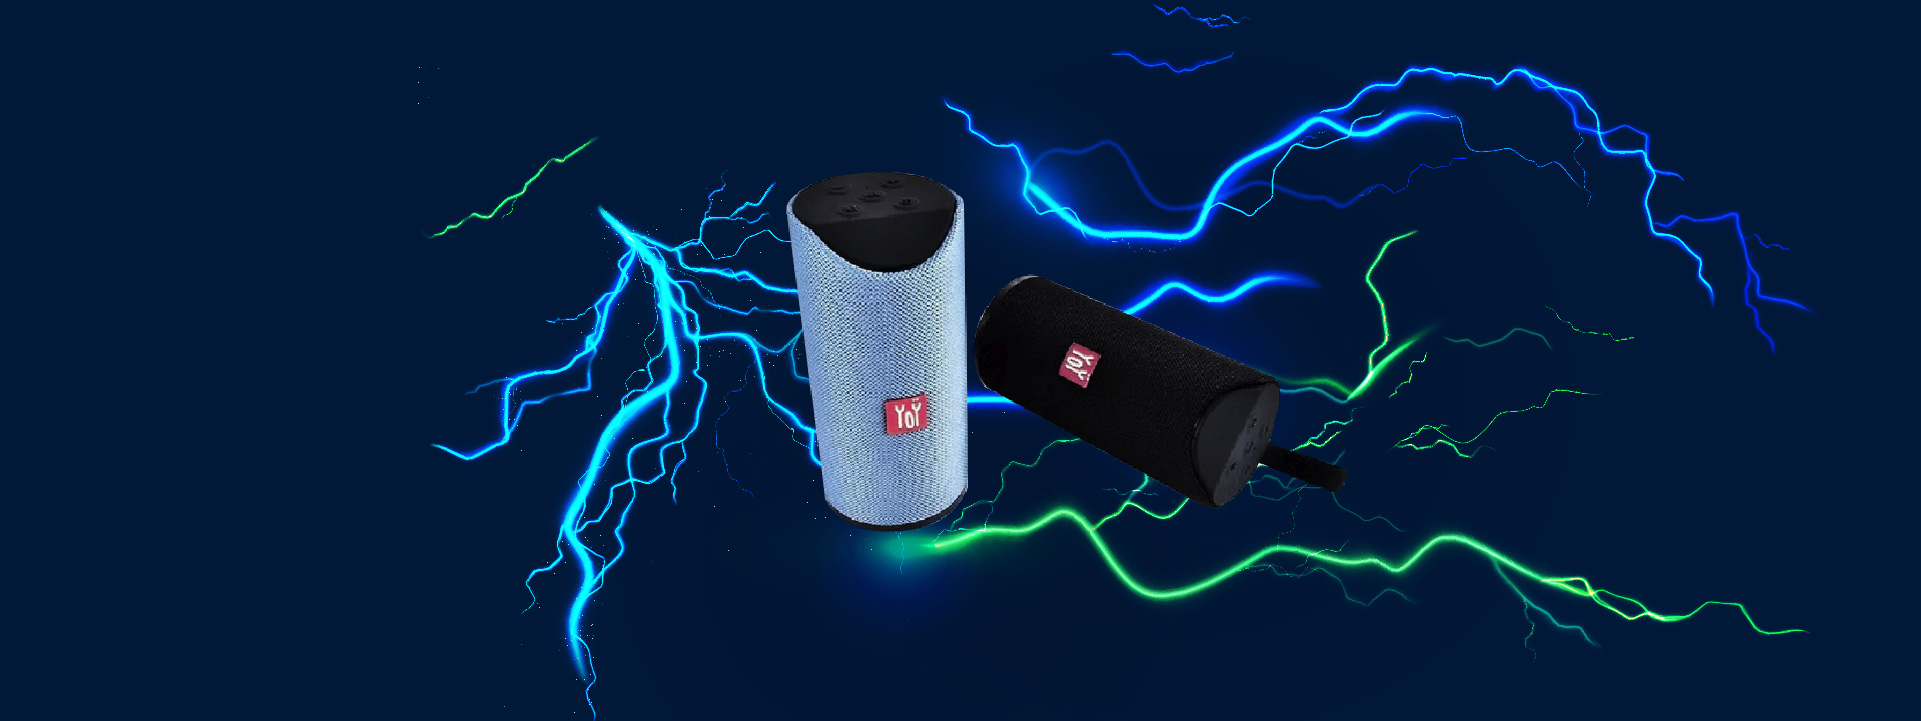
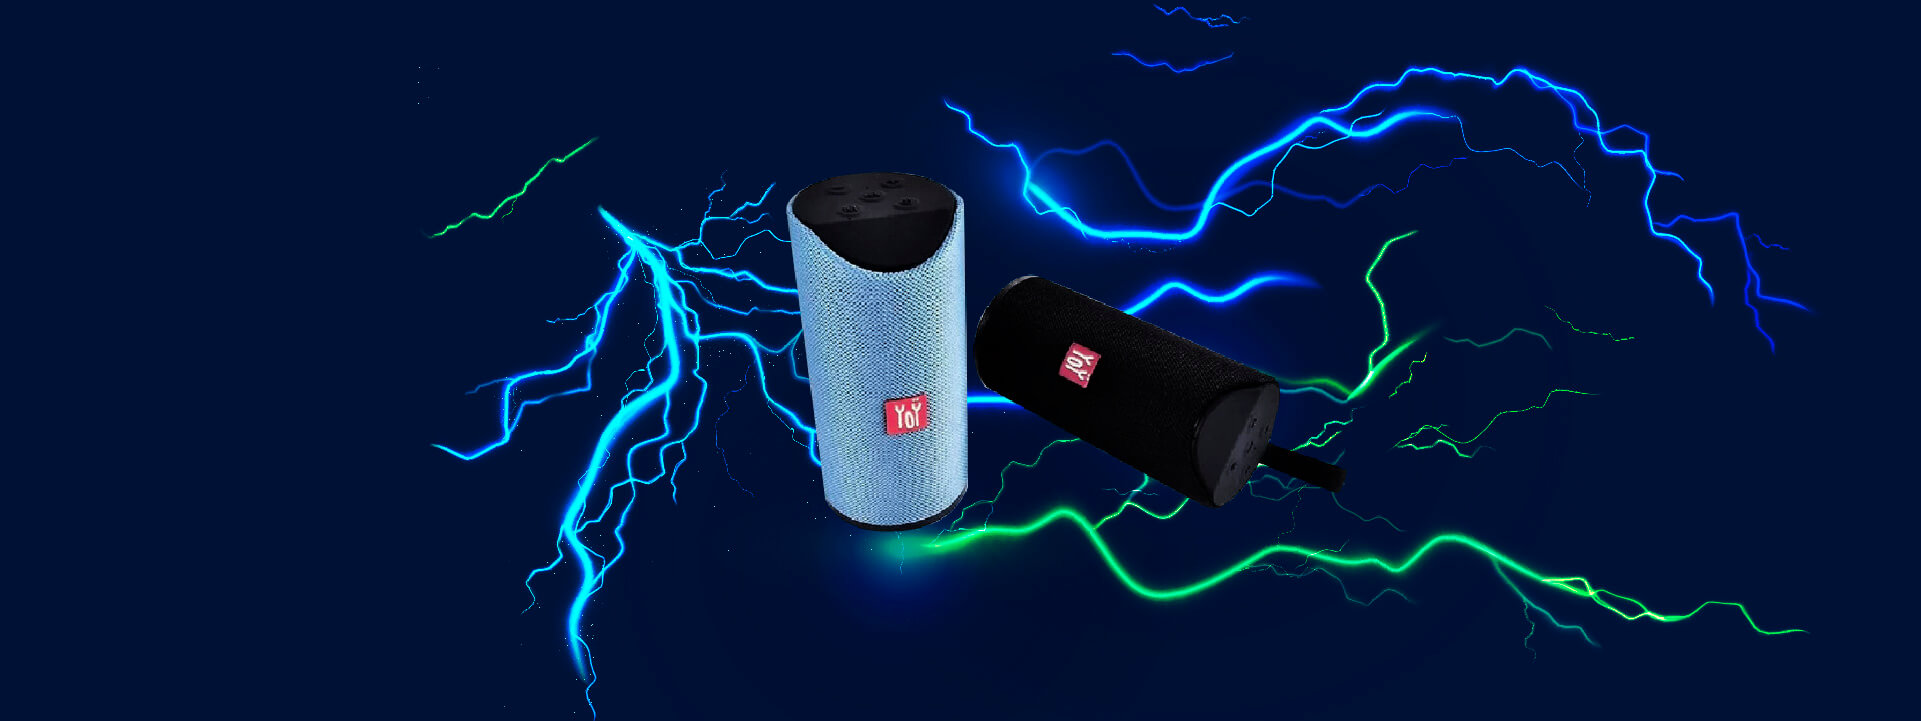
minified images for better performance

diff --git a/pages/index.vue b/pages/index.vue
@@ -199,7 +199,7 @@
       </div>
     </section> -->
     <section class="product-filter-section">
-      <div class="container">
+      <div v-if="!loading" class="container">
         <div class="section-title mt-5">
           <h2>DESCUBRE LOS PRODUCTOS MAS VENDIDOS</h2>
         </div>
@@ -230,6 +230,9 @@
             VER MAS
           </button>
         </div>
+      </div>
+      <div v-else class="d-flex justify-content-center my-5">
+        <b-spinner></b-spinner>
       </div>
     </section>
     <section class="banner-section">

diff --git a/components/ProductCard.vue b/components/ProductCard.vue
@@ -25,8 +25,5 @@ export default {
       type: Object,
     },
   },
-  mounted() {
-    console.log(this.product)
-  },
 }
 </script>
